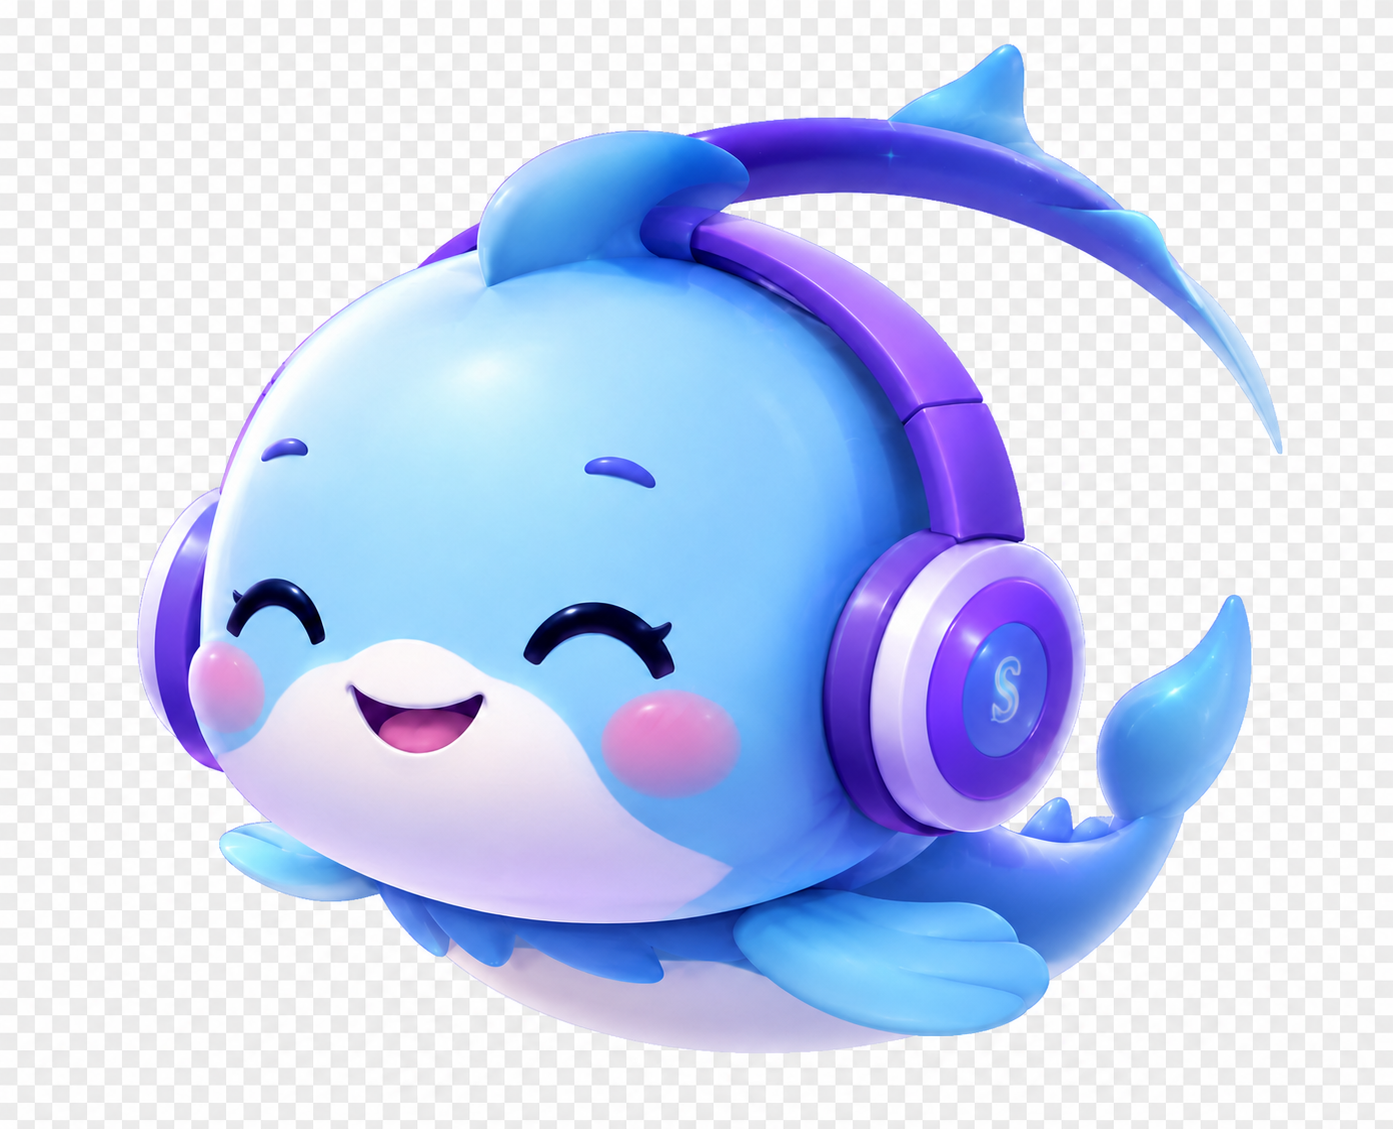
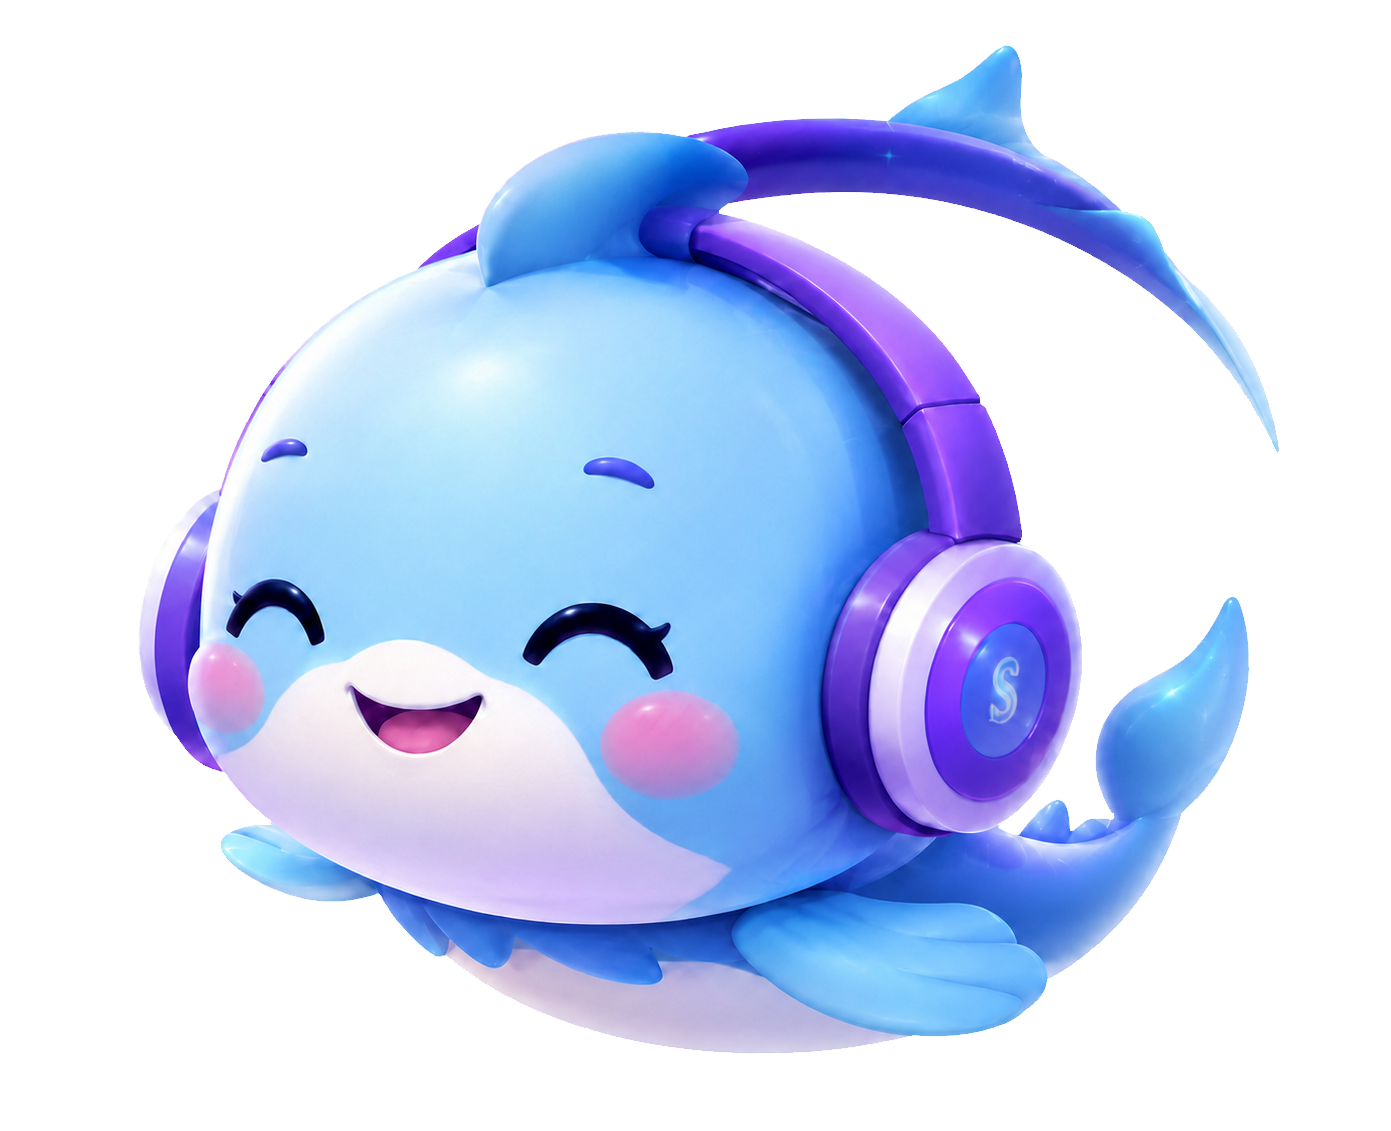
Fix Render database configuration

diff --git a/SoftSync-main/SoftSync.Presentation/Program.cs b/SoftSync-main/SoftSync.Presentation/Program.cs
@@ -36,15 +36,19 @@ builder.Services.AddScoped<UserProfileState>();
 builder.Services.AddHttpContextAccessor();
 
 // 1. Database Configuration (PostgreSQL).
-// Resolve order: explicit ConnectionStrings:SoftSyncDb (or env
-// ConnectionStrings__SoftSyncDb) → else the DATABASE_URL env that Render provides
-// (a postgres:// URI we convert to an Npgsql keyword string).
-var connectionString = builder.Configuration.GetConnectionString("SoftSyncDb");
+// Prefer Render's DATABASE_URL so a stale ConnectionStrings__SoftSyncDb value
+// cannot override the managed database's current internal connection URL.
+// Local/other environments can still use ConnectionStrings:SoftSyncDb.
+var databaseUrl = Environment.GetEnvironmentVariable("DATABASE_URL");
+var connectionString = !string.IsNullOrWhiteSpace(databaseUrl)
+    ? BuildNpgsqlConnectionString(databaseUrl)
+    : builder.Configuration.GetConnectionString("SoftSyncDb");
+
 if (string.IsNullOrWhiteSpace(connectionString))
 {
-    var databaseUrl = Environment.GetEnvironmentVariable("DATABASE_URL");
-    if (!string.IsNullOrWhiteSpace(databaseUrl))
-        connectionString = BuildNpgsqlConnectionString(databaseUrl);
+    throw new InvalidOperationException(
+        "PostgreSQL is not configured. Set DATABASE_URL on Render or " +
+        "ConnectionStrings__SoftSyncDb for another environment.");
 }
 builder.Services.AddDbContext<SoftSyncDbContext>(options =>
     options.UseNpgsql(connectionString));
@@ -137,6 +141,7 @@ builder.Services.AddScoped<IRoadmapService, RoadmapService>();
 builder.Services.AddScoped<IProgressService, ProgressService>();
 builder.Services.AddScoped<ICaseStudyService, CaseStudyService>();
 builder.Services.AddScoped<IMentorService, MentorService>();
+builder.Services.AddScoped<IGameBankService, GameBankService>();
 
 // 5. HttpClient for future AI integration
 builder.Services.AddHttpClient("AiApi", client =>